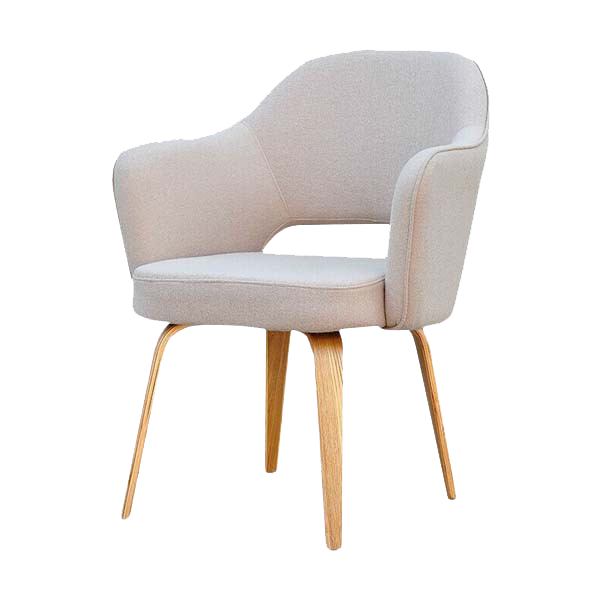
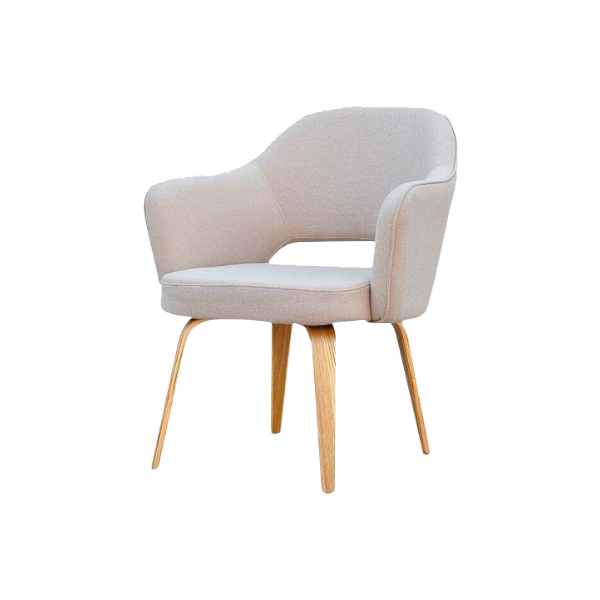
Create searchReducer, rewrite header menu(images).

Changed region(s): [[0.18, 0.06, 0.84, 0.93]]

diff --git a/src/components/header/Header.jsx b/src/components/header/Header.jsx
@@ -1,4 +1,7 @@
 import React from "react"
+import { useDispatch, useSelector } from "react-redux"
+//action
+import { visibleOnOff } from "../../redux/reducers/header/action"
 // styles
 import styles from "./css/Header.module.css"
 import textStyle from "./css/MenuText.module.css"
@@ -10,17 +13,37 @@ import heart from "./images/heart.png"
 // components
 import Menu from "../Menu"
 import OrgName from "../OrgName"
+import ButtonAction from "../ButtonAction"
 const Header = () => {
-  const titles = ["Каталог", "Дизайнерам", "Шоу-рум", "Доставка и оплата"]
+  const dispatch = useDispatch()
+  const visible = useSelector((state) => {
+    return state.searchReducer.visible
+  })
+  const titles = [
+    <ButtonAction>Каталог</ButtonAction>,
+    <ButtonAction>Дизайнерам</ButtonAction>,
+    <ButtonAction>Шоу-рум</ButtonAction>,
+    <ButtonAction>Доставка и оплата</ButtonAction>,
+  ]
   const images = [
-    <img src={search} alt="" />,
-    <img src={heart} alt="" />,
-    <img src={bucket} alt="" />,
+    <ButtonAction
+      onClick={() => {
+        dispatch(visibleOnOff(!visible))
+      }}
+    >
+      <img src={search} alt="" />
+    </ButtonAction>,
+    <ButtonAction>
+      <img src={heart} alt="" />
+    </ButtonAction>,
+    <ButtonAction>
+      <img src={bucket} alt="" />
+    </ButtonAction>,
   ]
   return (
     <header className={styles.header}>
       <OrgName />
-      <Menu style={textStyle.menu} items={titles} />
+      {visible ? <Menu style={textStyle.menu} items={titles} /> : null}
       <Menu style={imageStyle.menu} items={images} />
     </header>
   )

diff --git a/src/components/content/css/Section.module.css b/src/components/content/css/Section.module.css
@@ -1,1 +1,1 @@
-.section{display:flex;justify-content:space-around}.section :first-child{margin-right:8px;margin-bottom:8px}.item{cursor:pointer;width:-webkit-max-content;width:-moz-max-content;width:max-content;height:-webkit-max-content;height:-moz-max-content;height:max-content;padding:15px;border-radius:6px;background-color:#f5f5f5}.item img{display:block;margin-left:auto;margin-right:auto;width:85%;height:85%}
+.section{display:flex;justify-content:space-around}.section :first-child{margin-right:8px;margin-bottom:8px}.item{cursor:pointer;width:-webkit-max-content;width:-moz-max-content;width:max-content;height:-webkit-max-content;height:-moz-max-content;height:max-content;padding:15px;border-radius:6px;background-color:#f5f5f5}.item img{display:block;margin-left:auto;margin-right:auto;width:75%;height:75%}

diff --git a/src/redux/rootReducer.js b/src/redux/rootReducer.js
@@ -1,7 +1,7 @@
 import { combineReducers } from "redux";
-import { firstReducer } from "./reducers/header/firstReducer";
+import { searchReducer } from "./reducers/header/searchReducer";
 import { ideaListReducer } from "./reducers/content/ideaListReducer";
 export const rootReducer = combineReducers({
-    firstReducer,
+    searchReducer,
     ideaListReducer
 });

diff --git a/src/redux/reducers/header/searchReducer.js b/src/redux/reducers/header/searchReducer.js
@@ -1,0 +1,12 @@
+import { SEARCH_VISIBLE_ON_OFF } from "./types";
+const initialState = {
+    visible: false
+}
+export const searchReducer = (state = initialState, action) => {
+    switch (action.type) {
+        case SEARCH_VISIBLE_ON_OFF:
+            return { state, visible: action.active };
+        default:
+            return state;
+    }
+}

diff --git a/src/redux/reducers/header/action.js b/src/redux/reducers/header/action.js
@@ -1,0 +1,7 @@
+import { SEARCH_VISIBLE_ON_OFF } from "./types";
+export function visibleOnOff(signal) {
+    return {
+        type: SEARCH_VISIBLE_ON_OFF,
+        active: signal
+    }
+}

diff --git a/src/components/content/IdeaList.jsx b/src/components/content/IdeaList.jsx
@@ -1,6 +1,7 @@
 import React from "react"
 import { useEffect } from "react"
 import { useDispatch, useSelector } from "react-redux"
+//action
 import {
   ideasLoad,
   movingLeft,

diff --git a/src/components/catalog/Catalog.jsx b/src/components/catalog/Catalog.jsx
@@ -1,0 +1,9 @@
+import React from "react"
+// styles
+import styles from "./css/Catalog.module.css"
+
+const Catalog = () => {
+  return <div></div>
+}
+
+export default Catalog

diff --git a/src/components/content/styles/Section.module.scss b/src/components/content/styles/Section.module.scss
@@ -18,7 +18,7 @@
     display: block;
     margin-left: auto;
     margin-right: auto;
-    width: 85%;
-    height: 85%;
+    width: 75%;
+    height: 75%;
   }
 }

diff --git a/src/redux/reducers/header/types.js b/src/redux/reducers/header/types.js
@@ -1,0 +1,1 @@
+export const SEARCH_VISIBLE_ON_OFF = "SEARCH_VISIBLE_ON_OFF";

diff --git a/src/components/catalog/styles/Catalog.module.scss b/src/components/catalog/styles/Catalog.module.scss
@@ -1,0 +1,2 @@
+.catalog {
+}
